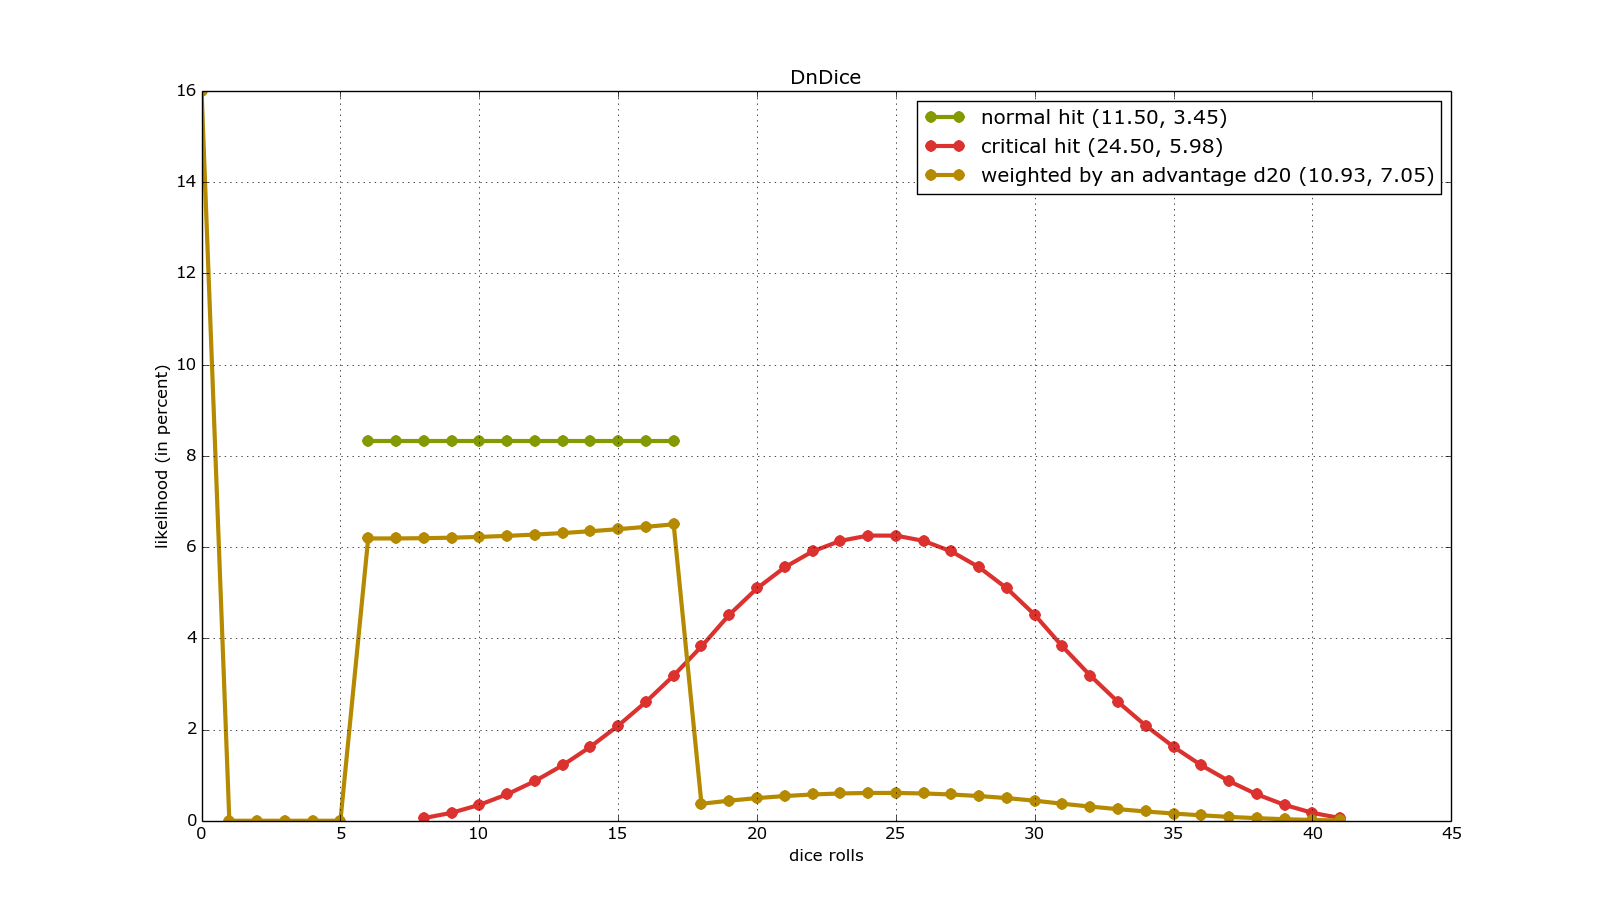
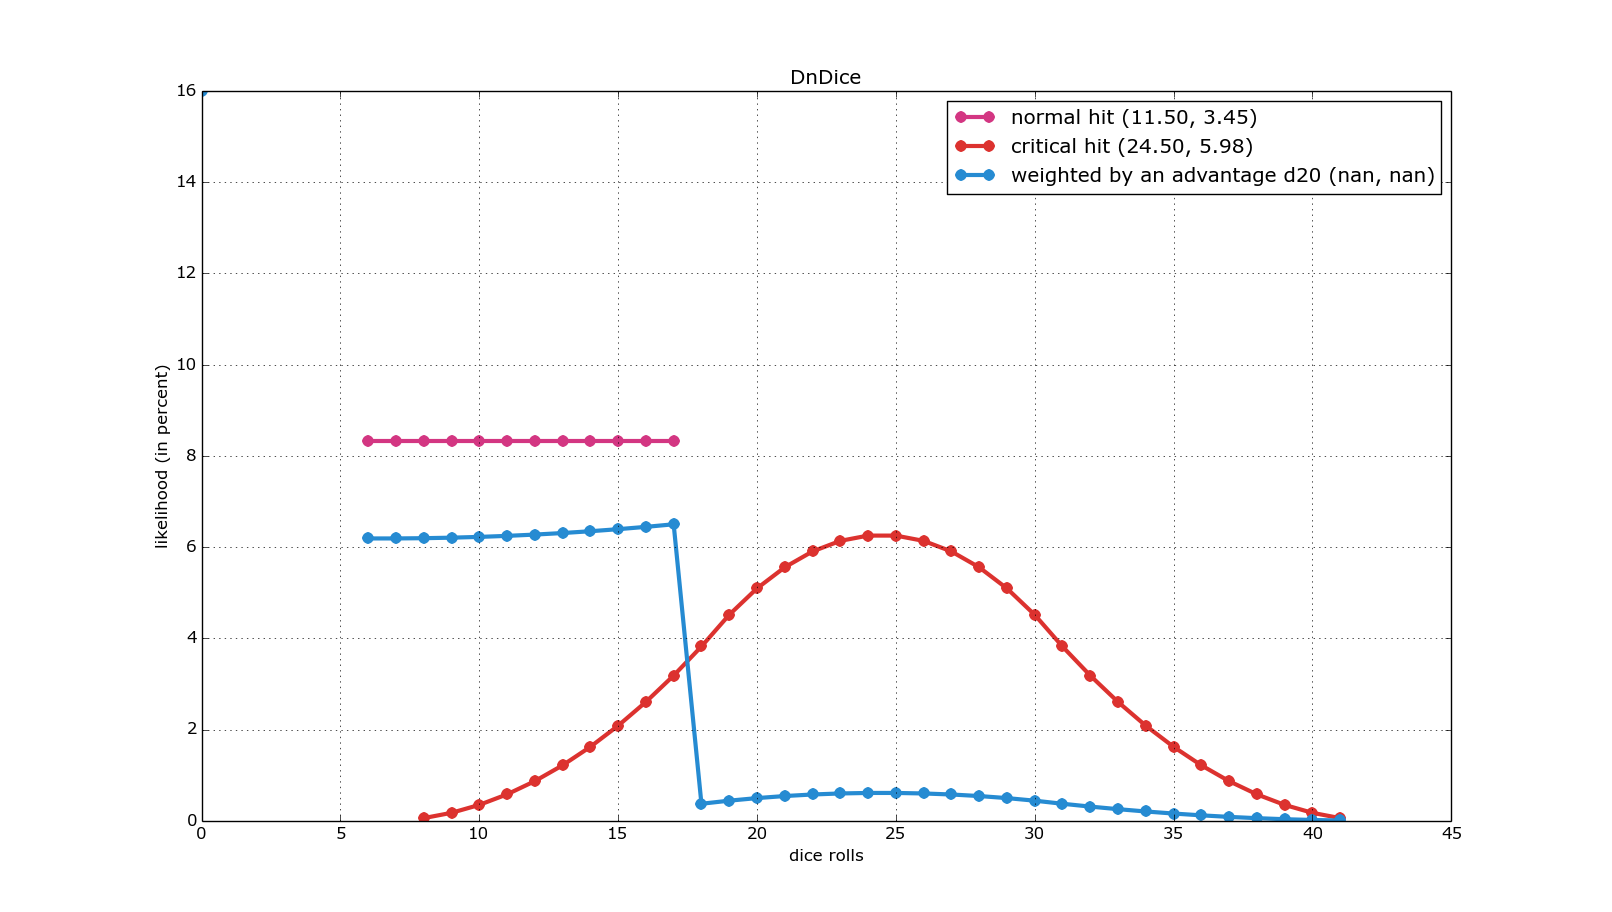
some fixes for np.NAN compatibility and new image

diff --git a/d.py b/d.py
@@ -125,7 +125,7 @@ class d(object):
 
 	@staticmethod
 	def normalize(expectancies):
-		return expectancies / np.sum(expectancies)
+		return expectancies / np.sum(np.nan_to_num(expectancies))
 
 	def plot(self):
 		plot.plot(self)
@@ -152,7 +152,8 @@ class d(object):
 
 		newValues = np.arange(minVal, maxVal + 1)
 		newLength = np.max(newValues.shape)
-		newExpectancies = np.empty(newLength).fill(np.NAN)
+		newExpectancies = np.empty(newLength)
+		newExpectancies.fill(np.NAN)
 
 		otherIndex = np.where(newValues == other.data[0][0])[0][0]
 		newExpectancies[otherIndex:other.length + otherIndex] = (other.expectancies() * weight)
